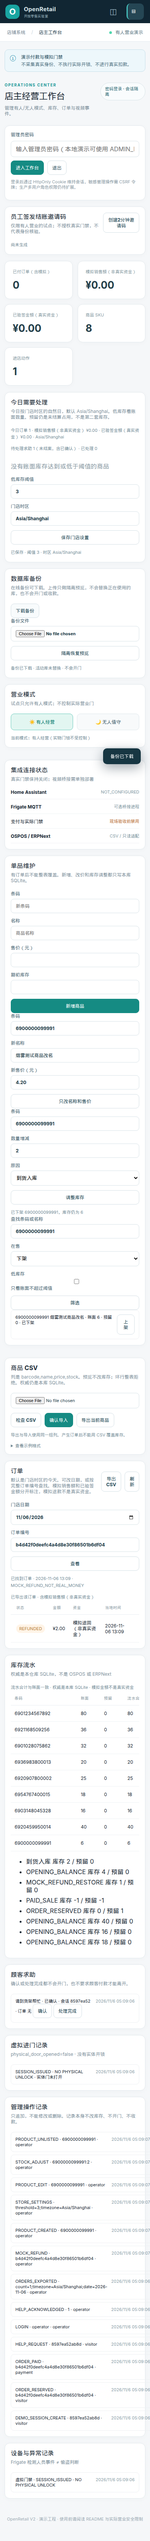
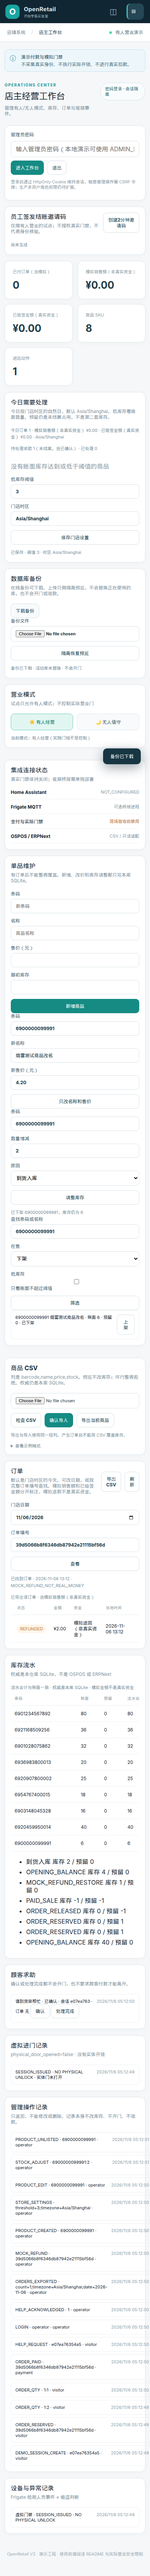
Let customers change quantity on an unpaid order.
The existing cart buttons update that order's reservation, reject stock past what is sellable, and refuse edits after payment.

diff --git a/web/app.js b/web/app.js
@@ -1,6 +1,6 @@
 'use strict';
 const $=id=>document.getElementById(id);
-const state={products:[],cart:new Map(),token:sessionStorage.getItem('retail_guest')||'',csrf:'',orderId:'',paymentPollId:null,paymentProvider:'MOCK_ONLY',scanner:null,scanTimer:null};
+const state={products:[],cart:new Map(),token:sessionStorage.getItem('retail_guest')||'',csrf:'',orderId:'',orderTotal:null,orderLines:null,paymentPollId:null,paymentProvider:'MOCK_ONLY',scanner:null,scanTimer:null};
 const money=cents=>'¥'+(Number(cents||0)/100).toFixed(2);
 const esc=s=>String(s??'').replace(/[&<>"']/g,c=>({'&':'&amp;','<':'&lt;','>':'&gt;','"':'&quot;',"'":'&#39;'}[c]));
 const time=t=>t?new Date(t*1000).toLocaleString('zh-CN'):'—';
@@ -19,8 +19,9 @@ async function loadProducts(){state.products=await api('/api/products');renderPr
 const pict=['▣','◈','◉','▤','▥','◎','◇','▧'];
 function renderProducts(){$('catalog').innerHTML=state.products.map((p,i)=>`<div class="product-card"><div class="product-icon">${pict[i%pict.length]}</div><div class="product-info"><b title="${esc(p.name)}">${esc(p.name)}</b><small>${esc(p.barcode)} · 可售 ${p.available_stock}</small><span class="price">${money(p.price_cents)}</span></div><button class="add-btn" data-add="${p.id}" ${p.available_stock<=0?'disabled':''} aria-label="添加 ${esc(p.name)}">+</button></div>`).join('')||'<p class="muted">没有商品</p>'}
 function add(pid){const p=state.products.find(x=>x.id===Number(pid));if(!p)return;const old=state.cart.get(p.id)||0;if(state.orderId){toast('已有待付款订单，请先完成付款或取消订单');return}if(old>=p.available_stock){toast('库存不足');return}state.cart.set(p.id,old+1);state.orderId='';$('pay-btn').disabled=true;renderCart()}
-function renderCart(){const items=[...state.cart.entries()];$('cart-count').textContent=items.reduce((sum,[,q])=>sum+q,0)+'件';const total=items.reduce((sum,[id,q])=>sum+(state.products.find(p=>p.id===id)?.price_cents||0)*q,0);$('cart-total').textContent=money(total);$('checkout-btn').disabled=!state.token||!items.length||!!state.orderId;
- $('cart').innerHTML=items.length?items.map(([id,qty])=>{const p=state.products.find(x=>x.id===id);return p?`<div class="cart-line"><div><b>${esc(p.name)}</b><small>${money(p.price_cents)} × ${qty}</small></div><div class="qty-tools"><button data-minus="${id}" aria-label="减少">−</button><span>${qty}</span><button data-add="${id}" aria-label="增加">+</button></div></div>`:''}).join(''):'<div class="cart-empty">购物车为空，先从货架添加商品。</div>';if($('cart-pay'))$('cart-pay').disabled=!state.token||(!items.length&&!state.orderId)}
+function renderCart(){const useOrder=!!(state.orderId&&state.orderLines);const rows=useOrder?state.orderLines.map(l=>({id:l.product_id,qty:l.quantity,name:l.name,price:l.unit_price_cents,listed:state.products.some(p=>p.id===l.product_id)})):[...state.cart.entries()].map(([id,qty])=>{const p=state.products.find(x=>x.id===id);return p?{id,qty,name:p.name,price:p.price_cents,listed:true}:null}).filter(Boolean);const count=rows.reduce((sum,row)=>sum+row.qty,0);const total=useOrder&&state.orderTotal!=null?state.orderTotal:rows.reduce((sum,row)=>sum+row.price*row.qty,0);$('cart-count').textContent=count+'件';$('cart-total').textContent=money(total);$('checkout-btn').disabled=!state.token||!rows.length||!!state.orderId;$('cart').innerHTML=rows.length?rows.map(row=>`<div class="cart-line"><div><b>${esc(row.name)}</b><small>${money(row.price)} × ${row.qty}</small></div><div class="qty-tools"><button data-minus="${row.id}" aria-label="减少">−</button><span>${row.qty}</span>${row.listed?`<button data-add="${row.id}" aria-label="增加">+</button>`:''}</div></div>`).join(''):'<div class="cart-empty">购物车为空，先从货架添加商品。</div>';if($('cart-pay'))$('cart-pay').disabled=!state.token||(!rows.length&&!state.orderId)}
+function rememberOrder(order){if(!order||order.cart_empty||order.status==='CANCELLED'&&!(order.lines||[]).length){state.orderId='';state.orderTotal=null;state.orderLines=null;state.cart.clear();$('pay-btn').disabled=true;$('cancel-order-btn').disabled=true;return}state.orderId=order.id;state.orderTotal=order.total_cents;state.orderLines=order.lines||[];state.cart=new Map(state.orderLines.map(line=>[line.product_id,line.quantity]));$('cancel-order-btn').disabled=false;$('pay-btn').disabled=state.paymentProvider==='DISABLED'}
+async function changeOrderQty(productId,next){if(!state.orderId){if(next<=0)state.cart.delete(productId);else{const p=state.products.find(x=>x.id===productId);if(!p){toast('该商品已下架，不能增加');return}const old=state.cart.get(productId)||0;if(next>old&&next>p.available_stock){toast('库存不足');return}state.cart.set(productId,next)}renderCart();return}const r=await api('/api/orders/'+state.orderId+'/lines',{method:'POST',guest:true,body:{product_id:productId,quantity:next}});if(r.physical_door_opened||r.real_door_enabled||r.payment_required_to_leave)throw Error('改数量不应开门或收款');rememberOrder(r);showPay(r);renderCart();await refreshMine()}
 function stopCamera(){if(state.scanTimer){clearInterval(state.scanTimer);state.scanTimer=null}if(state.scanner){state.scanner.getTracks().forEach(t=>t.stop());state.scanner=null}$('scanner-video').hidden=true}
 async function cameraScan(){if(state.scanner){stopCamera();$('camera-btn').textContent='尝试摄像头识别';return}if(!('BarcodeDetector'in window)||!navigator.mediaDevices?.getUserMedia){toast('此浏览器不支持 BarcodeDetector 或缺少安全 HTTPS 环境，请使用扫码枪或输入条码');return}
  try{const detector=new BarcodeDetector({formats:['ean_13','ean_8','code_128','upc_a']});const stream=await navigator.mediaDevices.getUserMedia({video:{facingMode:'environment'}});state.scanner=stream;const video=$('scanner-video');video.srcObject=stream;video.hidden=false;await video.play();$('camera-btn').textContent='关闭摄像头';state.scanTimer=setInterval(async()=>{if(video.readyState<2)return;try{const codes=await detector.detect(video);if(codes.length){$('barcode').value=codes[0].rawValue;stopCamera();$('camera-btn').textContent='尝试摄像头识别';tryScan()}}catch{}},600)}catch(e){stopCamera();toast('摄像头无法启动：'+e.message)}}
@@ -42,12 +43,12 @@ function showReceipt(order){const card=$('receipt');if(!card)return;if(!order||!
 function showPay(order){const box=$('payment-result');const view=describePayment(order);box.textContent=view.text;box.className='inline-note pay-banner'+(view.cls?' '+view.cls:'');showReceipt(order)}
 async function refreshMine(){if(!state.token){$('my-orders').innerHTML='<p class="muted">还没有订单</p>';return}const rows=await api('/api/orders',{guest:true});$('my-orders').innerHTML=rows.length?rows.map(o=>{const view=describePayment(o);return `<article class="${esc(view.cls)}"><b>${esc(view.text.split('·')[0].trim())}</b><div class="receipt-id">${esc(o.id)}</div><div>${esc(itemSummary(o))}</div><div>${money(o.total_cents)} · ${time(o.created_at)}</div><small>${esc(moneyNote(o))} · verified=${o.verified}</small></article>`}).join(''):'<p class="muted">还没有订单</p>';if(rows[0])showReceipt(rows[0])}
 async function showEntryStatus(){const status=await api('/api/entry/status',{guest:true});const latest=status.events[0];$('entry-status').textContent='实体门未打开 · physical_door_opened=false · 虚拟事件 '+(latest?latest.result+' / '+latest.detail:'无')}
-async function createOrder(){if(!state.token)throw Error('先创建访客会话');const req={request_id:(crypto.randomUUID?.()||('demo-'+Date.now()+'-'+Math.random())),lines:[...state.cart].map(([product_id,quantity])=>({product_id,quantity}))};const r=await api('/api/orders',{method:'POST',body:req,guest:true});state.orderId=r.id;$('cancel-order-btn').disabled=false;$('pay-btn').disabled=state.paymentProvider==='DISABLED';$('payment-qr').hidden=true;showPay(r);await refreshMine();return r}
-async function confirmMock(){const r=await api('/api/payments/mock-confirm',{method:'POST',body:{order_id:state.orderId},guest:true});showPay(r);if(r.status==='PAID'){state.cart.clear();state.orderId='';$('cancel-order-btn').disabled=true;$('pay-btn').disabled=true;await loadProducts()}await refreshMine();return r}
+async function createOrder(){if(!state.token)throw Error('先创建访客会话');const req={request_id:(crypto.randomUUID?.()||('demo-'+Date.now()+'-'+Math.random())),lines:[...state.cart].map(([product_id,quantity])=>({product_id,quantity}))};const r=await api('/api/orders',{method:'POST',body:req,guest:true});rememberOrder(r);$('payment-qr').hidden=true;showPay(r);renderCart();await refreshMine();return r}
+async function confirmMock(){const r=await api('/api/payments/mock-confirm',{method:'POST',body:{order_id:state.orderId},guest:true});showPay(r);if(r.status==='PAID'){state.cart.clear();state.orderId='';state.orderTotal=null;state.orderLines=null;$('cancel-order-btn').disabled=true;$('pay-btn').disabled=true;await loadProducts()}await refreshMine();return r}
 function fundLabel(order){if(order.status==='PAID'&&order.provider==='MOCK_NOT_REAL_MONEY')return '模拟销售额';if(Number(order.verified)===1)return '已验签真实资金';if(order.status==='REFUNDED'&&order.provider==='MOCK_NOT_REAL_MONEY')return '模拟退回';return '未收款'}
 async function adminRefresh(){if(!state.csrf)return;const [overview,orders,events,ledger,help,catalog,audit]=await Promise.all([api('/api/admin/overview',{admin:true}),api(ordersQuery(),{admin:true}),api('/api/admin/events',{admin:true}),api('/api/admin/inventory-ledger',{admin:true}),api('/api/admin/help-requests',{admin:true}),api(catalogQuery(),{admin:true}),api('/api/admin/audit',{admin:true})]);$('admin-body').hidden=false;$('m-orders').textContent=overview.paid_orders;$('m-sales').textContent=money(overview.simulated_revenue_cents);$('m-real').textContent=money(overview.verified_revenue_cents);$('today-summary').textContent='今日订单 '+overview.today_order_count+' · 模拟销售额（非真实资金） '+money(overview.today_simulated_revenue_cents)+' · 已验签金额（真实资金） '+money(overview.today_verified_revenue_cents)+' · '+overview.store_timezone;$('low-stock-threshold').value=overview.low_stock_threshold;$('store-timezone').value=overview.store_timezone;if(orders.local_date&&(!$('order-date').value||($('order-lookup').value||'').trim()))$('order-date').value=orders.local_date;const looked=($('order-lookup').value||'').trim();$('order-lookup-status').textContent=looked?(orders.orders&&orders.orders.length?('已找到订单 · '+orders.orders[0].local_time+' · '+(orders.orders[0].money_label==='MOCK_NOT_REAL_MONEY'?'模拟销售额（非真实资金）':(orders.orders[0].money_label||''))):'未找到订单'):('门店日期 '+(orders.local_date||'')+' · '+(orders.orders||[]).length+' 笔');$('admin-catalog').innerHTML=catalog.map(p=>`<div class="event"><span>${esc(p.barcode)} ${esc(p.name)} · 账面 ${p.stock} · 预留 ${p.reserved_stock} · ${p.active?'在售':'已下架'}</span><button class="btn secondary" type="button" data-listing-id="${p.id}" data-listing-barcode="${esc(p.barcode)}" data-listing-active="${p.active?0:1}">${p.active?'下架':'上架'}</button></div>`).join('')||'<p class="muted">没有商品</p>';$('audit-list').innerHTML=(audit.events||[]).map(e=>`<div class="event"><span>${esc(e.action)} · ${esc(e.detail)} · ${esc(e.actor)}</span><time>${time(e.created_at)}</time></div>`).join('')||'<p class="muted">没有操作记录</p>';$('help-attention').textContent='待处理求助 '+overview.help_needs_attention+'（未结案，含已确认） · 已处理 '+overview.help_resolved;$('low-stock-list').innerHTML=(overview.low_stock||[]).map(p=>`<div class="event"><span>${esc(p.barcode)} ${esc(p.name)} · 账面 ${p.stock} · 预留 ${p.reserved_stock} · 可售 ${p.available_stock}</span><time>阈值 ${overview.low_stock_threshold}</time></div>`).join('')||'<p class="muted">没有账面库存达到或低于阈值的商品</p>';$('m-products').textContent=overview.products;$('m-entries').textContent=overview.door_events;$('mode-info').textContent='当前模式：'+(overview.mode==='UNATTENDED'?'无人值守':'有人经营')+'（实物门锁不受控制）';$('ha-state').textContent=overview.home_assistant.status;$('mode-staffed').classList.toggle('selected',overview.mode==='STAFFED');$('mode-unattended').classList.toggle('selected',overview.mode==='UNATTENDED');const todayOrders=orders.orders||[];$('order-table').innerHTML=todayOrders.map(o=>{const refund=o.status==='PAID'&&o.provider==='MOCK_NOT_REAL_MONEY'&&Number(o.verified)!==1?`<button class="btn secondary" type="button" data-mock-refund="${esc(o.id)}">模拟退款</button>`:'';const label=o.money_label==='MOCK_NOT_REAL_MONEY'?'模拟销售额（非真实资金）':o.money_label==='VERIFIED_REAL_MONEY'?'已验签金额（真实资金）':o.money_label==='MOCK_REFUND_NOT_REAL_MONEY'?'模拟退回（非真实资金）':fundLabel(o);return `<tr><td title="${esc(o.id)}">${esc(o.id.slice(0,12))}…<div class="muted">${esc(o.items||'')}</div></td><td><span class="status ${o.status==='PAID'?'paid':''}">${esc(o.status)}</span></td><td>${money(o.total_cents)}</td><td>${esc(label)}</td><td>${esc(o.local_time||'')}</td><td>${refund}</td></tr>`}).join('')||'<tr><td colspan="6">这一天没有订单</td></tr>';$('ledger-balance').textContent=(ledger.balanced?'流水合计与账面一致':'流水与账面不一致，需要人工核对')+' · 权威是本库 SQLite · 模拟金额不是真实资金';$('ledger-table').innerHTML=ledger.products.map(p=>`<tr><td>${esc(p.barcode)}</td><td>${p.stock}</td><td>${p.reserved_stock}</td><td>${p.ledger_stock}</td><td>${p.balanced?'一致':'不一致'}</td></tr>`).join('')||'<tr><td colspan="5">没有商品</td></tr>';$('ledger-moves').innerHTML=ledger.movements.slice(0,8).map(m=>`<li>${esc(m.reason)} 库存 ${m.stock_delta} / 预留 ${m.reserved_delta}</li>`).join('');const helpLabel={OPEN:'待处理',ACKNOWLEDGED:'已确认',RESOLVED:'已处理'};$('help-list').innerHTML=(help.requests||[]).map(h=>{const buttons=h.status==='RESOLVED'?'':`<button class="btn secondary" type="button" data-help-id="${esc(h.id)}" data-help-status="ACKNOWLEDGED">确认</button> <button class="btn secondary" type="button" data-help-id="${esc(h.id)}" data-help-status="RESOLVED">处理完成</button>`;return `<div class="event"><span>${esc(h.message)} · ${esc(helpLabel[h.status]||h.status)} · 会话 ${esc((h.session_id||'无').slice(0,8))} · 订单 ${esc((h.order_id||'无').slice(0,8))} ${buttons}</span><time>${time(h.created_at)}</time></div>`}).join('')||'<p class="muted">没有求助</p>';$('door-lock-note').textContent=events.physical_door_opened===false?'physical_door_opened=false · 没有实体开锁':'门状态异常';$('door-event-list').innerHTML=(events.door||[]).map(e=>`<div class="event"><span>${esc(e.result)} · ${esc(e.detail)} · 实体门未打开</span><time>${time(e.created_at)}</time></div>`).join('')||'<p class="muted">没有虚拟进门记录</p>';const incident=events.frigate.map(e=>({name:'Frigate 人员事件 · '+e.camera+' · '+e.event_type,t:e.created_at})),doors=events.door.map(e=>({name:'虚拟门禁 · '+e.result+' · '+e.detail,t:e.created_at}));$('event-list').innerHTML=[...incident,...doors].sort((a,b)=>b.t-a.t).slice(0,15).map(e=>`<div class="event"><span>${esc(e.name)}</span><time>${time(e.t)}</time></div>`).join('')||'<p class="muted">暂无设备事件</p>'}
 async function run(fn){try{await fn()}catch(e){toast(e.message);console.error(e)}}
-document.addEventListener('click',e=>{const refund=e.target.closest('[data-mock-refund]');if(refund){run(async()=>{const r=await api('/api/admin/orders/'+refund.dataset.mockRefund+'/mock-refund',{admin:true,method:'POST'});toast(r.real_money?'异常：模拟退款不应产生真实资金':'模拟退款已回补库存，不是微信退款');await adminRefresh();await loadProducts()});return}const listing=e.target.closest('[data-listing-id]');if(listing){run(async()=>{const r=await api('/api/admin/products/'+listing.dataset.listingId+'/listing',{admin:true,method:'POST',body:{active:listing.dataset.listingActive==='1'}});if(r.stock_changed||r.physical_door_opened||r.real_door_enabled)throw Error('上下架不应改库存或开门');$('product-status').textContent=(r.active?'已上架':'已下架')+' '+r.barcode+'，库存仍为 '+r.stock;await adminRefresh();await loadProducts();toast(r.active?'已上架':'已下架')});return}const helpAction=e.target.closest('[data-help-status]');if(helpAction){run(async()=>{const r=await api('/api/admin/help-requests/'+helpAction.dataset.helpId+'/status',{admin:true,method:'POST',body:{status:helpAction.dataset.helpStatus}});if(r.physical_door_opened||r.payment_required_to_leave||r.door_authorized)throw Error('处理求助不应开门或要求付款');toast(r.status==='RESOLVED'?'求助已处理，门未打开':'已确认求助，门未打开');await adminRefresh()});return}const nav=e.target.closest('[data-panel]');if(nav){document.querySelectorAll('.nav').forEach(n=>n.classList.toggle('active',n===nav));['shop','admin'].forEach(p=>$('panel-'+p).hidden=p!==nav.dataset.panel);$('current-title').textContent=nav.dataset.panel==='shop'?'顾客自助购物':'店主工作台';if(nav.dataset.panel==='admin')run(adminRefresh)}const addButton=e.target.closest('[data-add]');if(addButton)add(addButton.dataset.add);const minus=e.target.closest('[data-minus]');if(minus){if(state.orderId){toast('请先完成或取消当前订单');return}const id=Number(minus.dataset.minus);const q=(state.cart.get(id)||0)-1;if(q<=0)state.cart.delete(id);else state.cart.set(id,q);state.orderId='';$('pay-btn').disabled=true;renderCart()}});
+document.addEventListener('click',e=>{const refund=e.target.closest('[data-mock-refund]');if(refund){run(async()=>{const r=await api('/api/admin/orders/'+refund.dataset.mockRefund+'/mock-refund',{admin:true,method:'POST'});toast(r.real_money?'异常：模拟退款不应产生真实资金':'模拟退款已回补库存，不是微信退款');await adminRefresh();await loadProducts()});return}const listing=e.target.closest('[data-listing-id]');if(listing){run(async()=>{const r=await api('/api/admin/products/'+listing.dataset.listingId+'/listing',{admin:true,method:'POST',body:{active:listing.dataset.listingActive==='1'}});if(r.stock_changed||r.physical_door_opened||r.real_door_enabled)throw Error('上下架不应改库存或开门');$('product-status').textContent=(r.active?'已上架':'已下架')+' '+r.barcode+'，库存仍为 '+r.stock;await adminRefresh();await loadProducts();toast(r.active?'已上架':'已下架')});return}const helpAction=e.target.closest('[data-help-status]');if(helpAction){run(async()=>{const r=await api('/api/admin/help-requests/'+helpAction.dataset.helpId+'/status',{admin:true,method:'POST',body:{status:helpAction.dataset.helpStatus}});if(r.physical_door_opened||r.payment_required_to_leave||r.door_authorized)throw Error('处理求助不应开门或要求付款');toast(r.status==='RESOLVED'?'求助已处理，门未打开':'已确认求助，门未打开');await adminRefresh()});return}const nav=e.target.closest('[data-panel]');if(nav){document.querySelectorAll('.nav').forEach(n=>n.classList.toggle('active',n===nav));['shop','admin'].forEach(p=>$('panel-'+p).hidden=p!==nav.dataset.panel);$('current-title').textContent=nav.dataset.panel==='shop'?'顾客自助购物':'店主工作台';if(nav.dataset.panel==='admin')run(adminRefresh)}const addButton=e.target.closest('[data-add]');if(addButton){const id=Number(addButton.dataset.add);if(state.orderId){const current=state.cart.get(id)||0;if(!current){toast('已有待付款订单，请先完成付款或取消订单');return}run(()=>changeOrderQty(id,current+1));return}add(id);return}const minus=e.target.closest('[data-minus]');if(minus){const id=Number(minus.dataset.minus);const current=state.cart.get(id)||0;if(state.orderId){run(()=>changeOrderQty(id,Math.max(0,current-1)));return}if(current<=1)state.cart.delete(id);else state.cart.set(id,current-1);$('pay-btn').disabled=true;renderCart()}});
 $('entry-btn').onclick=()=>run(async()=>{const s=await api('/api/entry',{method:'POST'});state.token=s.guest_token;sessionStorage.setItem('retail_guest',state.token);$('entry-result').textContent='访客会话创建成功（未进行身份核验）；有效期至 '+time(s.expires_at);$('door-btn').disabled=false;await showEntryStatus();renderCart();toast('演示访客会话已创建')});
 $('door-btn').onclick=()=>run(async()=>{if(!state.token)throw Error('请先创建会话');const r=await api('/api/door/open',{method:'POST',guest:true});if(r.physical_door_opened)throw Error('实体门状态异常');$('entry-result').textContent='开门结果：'+r.result+'。实际门锁未动作。';$('entry-status').textContent='实体门未打开 · physical_door_opened=false · 虚拟事件 '+(r.events||[]).map(e=>e.result).join('、');toast('仅模拟开门成功')});
 $('help-btn').onclick=()=>run(async()=>{const message=$('help-message').value.trim();const r=await api('/api/help',{method:'POST',body:{message,order_id:state.orderId||null},guest:!!state.token});if(r.physical_door_opened||r.payment_required_to_leave)throw Error('求助状态异常');$('help-result').textContent='已通知店员 · '+time(r.created_at)+' · 不会打开实体门 · 离店不需要付款';$('help-message').value='';toast('已呼叫店员')});
@@ -84,7 +85,7 @@ $('issue-invite').onclick=()=>run(async()=>{
 });
 $('cancel-order-btn').onclick=()=>run(async()=>{if(!state.orderId)return;
  const r=await api('/api/orders/'+state.orderId+'/cancel',{method:'POST',guest:true});
- state.orderId='';$('pay-btn').disabled=true;$('cancel-order-btn').disabled=true;
+ state.orderId='';state.orderTotal=null;state.orderLines=null;$('pay-btn').disabled=true;$('cancel-order-btn').disabled=true;
  $('payment-qr').hidden=true;showPay(r);await refreshMine();
  await loadProducts();toast('已取消未付款订单');
 });

diff --git a/tests/test_cart_lines.py b/tests/test_cart_lines.py
@@ -1,0 +1,72 @@
+"""Unpaid order lines can change quantity without breaking reservations."""
+from conftest import visitor
+
+
+def stock_of(client, product_id):
+    with client.app.state.db.connect() as conn:
+        row=conn.execute('SELECT stock,reserved_stock FROM products WHERE id=?',(product_id,)).fetchone()
+        moves=conn.execute('SELECT COUNT(*) n FROM stock_movements').fetchone()['n']
+        doors=conn.execute('SELECT COUNT(*) n FROM door_events').fetchone()['n']
+        payments=conn.execute('SELECT COUNT(*) n FROM payments').fetchone()['n']
+    return row['stock'],row['reserved_stock'],moves,doors,payments
+
+
+def test_quantity_change_reserves_only_what_is_sellable(client, admin_header):
+    assert client.post('/api/orders/missing/lines',json={'product_id':1,'quantity':2}).status_code==401
+    guest=visitor(client)
+    other=visitor(client)
+    made=client.post('/api/admin/products',headers=admin_header,json={
+        'barcode':'6900000080008','name':'可改数量','price_cents':100,'stock':3,'active':True}).json()
+    created=client.post('/api/orders',headers=guest,json={'request_id':'line-qty-0001',
+        'lines':[{'product_id':made['id'],'quantity':1}]})
+    assert created.status_code==201
+    order=created.json()
+    assert order['total_cents']==100 and order['real_money'] is False
+    path=f"/api/orders/{order['id']}/lines"
+    raised=client.post(path,headers=guest,json={'product_id':made['id'],'quantity':2})
+    assert raised.status_code==200
+    body=raised.json()
+    assert body['lines'][0]['quantity']==2 and body['total_cents']==200
+    assert '可改数量 x2'==body['items']
+    assert body['physical_door_opened'] is False and body['real_door_enabled'] is False
+    assert body['payment_required_to_leave'] is False and body['real_money'] is False
+    assert stock_of(client,made['id'])[:2]==(3,2)
+    moves_before=stock_of(client,made['id'])[2]
+    blocked=client.post(path,headers=guest,json={'product_id':made['id'],'quantity':4})
+    assert blocked.status_code==409
+    assert '可售库存不足' in blocked.json()['detail']
+    still=client.get('/api/orders/'+order['id'],headers=guest).json()
+    assert still['lines'][0]['quantity']==2 and still['total_cents']==200
+    assert stock_of(client,made['id'])[:3]==(3,2,moves_before)
+    assert client.post(path,headers=other,json={'product_id':made['id'],'quantity':1}).status_code==404
+    assert stock_of(client,made['id'])[:2]==(3,2)
+    down=client.post(path,headers=guest,json={'product_id':made['id'],'quantity':1})
+    assert down.status_code==200 and down.json()['total_cents']==100
+    assert stock_of(client,made['id'])[:2]==(3,1)
+    hidden=client.post('/api/admin/products/'+str(made['id'])+'/listing',headers=admin_header,json={'active':False})
+    assert hidden.status_code==200 and hidden.json()['stock']==3
+    refused=client.post(path,headers=guest,json={'product_id':made['id'],'quantity':2})
+    assert refused.status_code==409 and '下架' in refused.json()['detail']
+    assert client.get('/api/orders/'+order['id'],headers=guest).json()['lines'][0]['quantity']==1
+    assert stock_of(client,made['id'])[:2]==(3,1)
+    emptied=client.post(path,headers=guest,json={'product_id':made['id'],'quantity':0})
+    assert emptied.status_code==200
+    assert emptied.json()['status']=='CANCELLED' and emptied.json()['cart_empty'] is True
+    assert emptied.json()['lines']==[] and emptied.json()['total_cents']==0
+    assert stock_of(client,made['id'])[:2]==(3,0)
+    assert client.get('/api/admin/inventory-ledger',headers=admin_header).json()['balanced'] is True
+    shown=client.post('/api/admin/products/'+str(made['id'])+'/listing',headers=admin_header,json={'active':True})
+    assert shown.json()['stock']==3
+    guest=visitor(client)
+    paid_order=client.post('/api/orders',headers=guest,json={'request_id':'line-qty-paid-01',
+        'lines':[{'product_id':made['id'],'quantity':1}]}).json()
+    assert client.post('/api/payments/mock-confirm',headers=guest,json={'order_id':paid_order['id']}).json()['real_money'] is False
+    locked=client.post(f"/api/orders/{paid_order['id']}/lines",headers=guest,json={'product_id':made['id'],'quantity':2})
+    assert locked.status_code==409
+    assert stock_of(client,made['id'])[:2]==(2,0)
+    doors=stock_of(client,made['id'])[3]
+    assert client.post(f"/api/orders/{paid_order['id']}/lines",headers=guest,json={'product_id':made['id'],'quantity':1}).status_code==409
+    assert stock_of(client,made['id'])[3]==doors
+    assert client.get('/api/admin/overview',headers=admin_header).json()['verified_revenue_cents']==0
+    shop=open('web/index.html',encoding='utf-8').read().split('id="panel-admin"',1)[0]
+    assert '退款' not in shop

diff --git a/openretail/main.py b/openretail/main.py
@@ -143,6 +143,9 @@ class Line(BaseModel):
 class NewOrder(BaseModel):
     request_id:str=Field(min_length=8,max_length=128)
     lines:list[Line]=Field(min_length=1,max_length=40)
+class LineQuantity(BaseModel):
+    product_id:int=Field(gt=0)
+    quantity:int=Field(ge=0,le=30)
 
 class ProductInput(BaseModel):
     barcode:str=Field(min_length=1,max_length=64)
@@ -529,6 +532,61 @@ def create_app(settings:Settings|None=None)->FastAPI:
             c.execute("UPDATE orders SET status='CANCELLED' WHERE id=?",(order_id,))
             db.audit(c,'visitor','ORDER_CANCELLED',order_id)
             return row_order(c,order_id)
+
+    @app.post('/api/orders/{order_id}/lines')
+    def set_line_quantity(order_id:str, payload:LineQuantity, sid:str=Depends(guest)):
+        """Change one unpaid line. Reservations move with the quantity; on-hand stock does not."""
+        with db.tx() as c:
+            db.expire(c,now())
+            order=order_owned(c,order_id,sid)
+            if order['status']!='PENDING':
+                abort(409,'只有未付款订单可以改数量')
+            line=c.execute('''SELECT product_id,quantity,unit_price_cents FROM order_lines
+                              WHERE order_id=? AND product_id=?''',(order_id,payload.product_id)).fetchone()
+            if not line:abort(404,'订单里没有这个商品')
+            current=int(line['quantity'])
+            target=payload.quantity
+            if target!=current:
+                product=c.execute('SELECT id,stock,reserved_stock,active FROM products WHERE id=?',(payload.product_id,)).fetchone()
+                if not product:abort(404,'商品不存在')
+                delta=target-current
+                if delta>0:
+                    if not product['active']:abort(409,'该商品已下架，不能增加数量')
+                    if product['stock']-product['reserved_stock']<delta:abort(409,'可售库存不足')
+                    cur=c.execute('''UPDATE products SET reserved_stock=reserved_stock+?
+                                     WHERE id=? AND stock-reserved_stock>=?''',(delta,product['id'],delta))
+                    if cur.rowcount!=1:abort(409,'可售库存不足')
+                    db.movement(c,product['id'],0,delta,'ORDER_RESERVED',order_id)
+                    c.execute('UPDATE order_lines SET quantity=? WHERE order_id=? AND product_id=?',
+                              (target,order_id,product['id']))
+                else:
+                    release=-delta
+                    cur=c.execute('''UPDATE products SET reserved_stock=reserved_stock-?
+                                     WHERE id=? AND reserved_stock>=?''',(release,product['id'],release))
+                    if cur.rowcount!=1:raise RuntimeError('reservation invariant broken')
+                    db.movement(c,product['id'],0,-release,'ORDER_RELEASED',order_id)
+                    if target==0:
+                        c.execute('DELETE FROM order_lines WHERE order_id=? AND product_id=?',(order_id,product['id']))
+                    else:
+                        c.execute('UPDATE order_lines SET quantity=? WHERE order_id=? AND product_id=?',
+                                  (target,order_id,product['id']))
+                remaining=c.execute('SELECT product_id,quantity FROM order_lines WHERE order_id=?',(order_id,)).fetchall()
+                if not remaining:
+                    c.execute("UPDATE orders SET status='CANCELLED', total_cents=0, fingerprint='' WHERE id=?",(order_id,))
+                    db.audit(c,'visitor','ORDER_EMPTIED',order_id)
+                else:
+                    total=c.execute('SELECT COALESCE(SUM(unit_price_cents*quantity),0) n FROM order_lines WHERE order_id=?',
+                                    (order_id,)).fetchone()['n']
+                    pairs=sorted((int(r['product_id']),int(r['quantity'])) for r in remaining)
+                    fp=hashlib.sha256(json.dumps(pairs,separators=(',',':')).encode()).hexdigest()
+                    c.execute('UPDATE orders SET total_cents=?, fingerprint=? WHERE id=?',(total,fp,order_id))
+                    db.audit(c,'visitor','ORDER_QTY',f'{payload.product_id}:{target}')
+            body=row_order(c,order_id)
+            body['cart_empty']=body['status']=='CANCELLED' and not body['lines']
+            body['physical_door_opened']=False
+            body['real_door_enabled']=False
+            body['payment_required_to_leave']=False
+            return body
 
     def mock_enabled():
         if not(cfg.demo and cfg.mock_payments):abort(403,'模拟支付仅允许演示模式，不会访问微信支付')

diff --git a/scripts/ui_bridge_smoke.py b/scripts/ui_bridge_smoke.py
@@ -45,6 +45,11 @@ with TestClient(create_app(cfg)) as backend,sync_playwright() as pw:
  p.locator('#checkout-btn').click()
  p.wait_for_function("document.querySelector('#payment-result').textContent.includes('订单')")
  print('order:',p.locator('#payment-result').inner_text())
+ p.wait_for_function("document.querySelector('#cart-total').textContent==='¥2.00'")
+ p.locator('#cart [data-add]').click()
+ p.wait_for_function("document.querySelector('#cart-total').textContent==='¥4.00'")
+ p.locator('#cart [data-minus]').click()
+ p.wait_for_function("document.querySelector('#cart-total').textContent==='¥2.00'")
  p.locator('#pay-btn').click()
  p.wait_for_function("document.querySelector('#payment-result').textContent.includes('模拟支付成功')")
  print('paid:',p.locator('#payment-result').inner_text())

diff --git a/docs/PROJECT_STATUS.md b/docs/PROJECT_STATUS.md
@@ -4,6 +4,18 @@
 
 完全无人值守经营仍是 **NOT_APPROVED**。示例配置里的真实支付和实体开锁都是关闭的。
 
+## 本增量（未付款订单改数量）
+
+已在代码和测试里做到，并在本机复跑：
+
+- 购物车原有的加减按钮，在未付款订单上会改同一张订单的行，而不是另做一个篮子。增加时比较的是账面库存减去已预留。超过可售数量返回 409，订单行、账面和预留都不变。
+- 减少或删掉一行会释放对应预留，流水仍与账面一致。删掉最后一行后订单变为 `CANCELLED`，购物车清空，不会留下金额为 0 却还能付款的订单。
+- 已模拟付款的订单不能再改数量。已下架商品不能通过加数量重新加回。别的会话或未登录会被拒绝。这些请求不开门、不调用支付机构。顾客页没有退款按钮。
+
+`/tmp/openretail-venv/bin/python -m pytest -q`（工作目录 `/workspace`，Python 3.12.3）：**61 passed，1 warning，6.73s，退出码 0**。警告仍是 Starlette 的 `httpx` TestClient 弃用提示。61 = 上一轮 60 + 本增量 1。
+
+`scripts/ui_bridge_smoke.py` 在去掉密钥环境变量后退出码 0。未付款订单先是 ¥2.00，点增加后购物车合计变为 ¥4.00，点减少后回到 ¥2.00，随后的模拟支付仍是 ¥2.00 且带「非真实资金」。顾客页没有「退款」。390 宽 `scrollWidth` 390，1440 宽 `scrollWidth` 1440，`pageerror` 为空。这仍是 Chrome 到 TestClient 的桥，不是真机，也不是真实收款。
+
 ## 本增量（顾客小票）
 
 已在代码和测试里做到，并在本机复跑：
